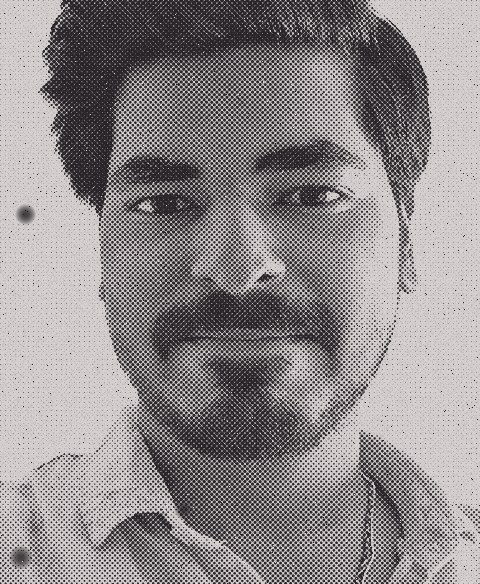
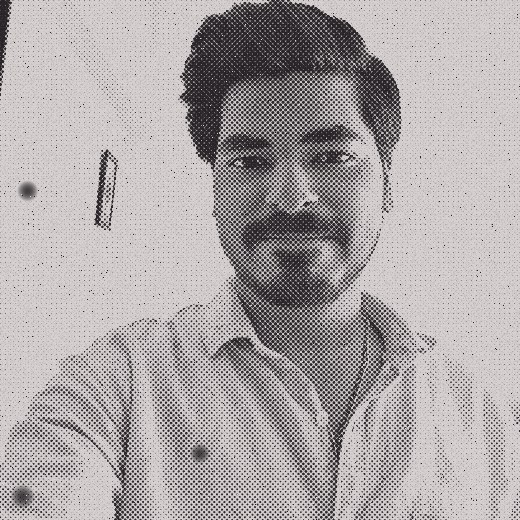
About: the 3rd photo is the whole picture as shared (square, no crop)

diff --git a/index.html b/index.html
@@ -919,7 +919,7 @@
             <span class="abTape" style="left: 490px; top: 510px; width: 64px; transform: rotate(12deg)"></span>
             <!-- small, in the corner: standing in an empty room -->
             <figure class="abCopy" style="left: 486px; top: 768px; transform: rotate(5deg)">
-              <div class="tear"><img src="assets/about/copy-me.jpg?v=3" alt="Gandhar smiling, a selfie, as a halftone photocopy" width="142" height="173"></div>
+              <div class="tear"><img src="assets/about/copy-me.jpg?v=4" alt="Gandhar smiling, a selfie, as a halftone photocopy" width="158" height="158"></div>
             </figure>
             <span class="abTape" style="left: 520px; top: 758px; width: 70px; transform: rotate(8deg)"></span>
            <!-- the last line, just written on the page -->
